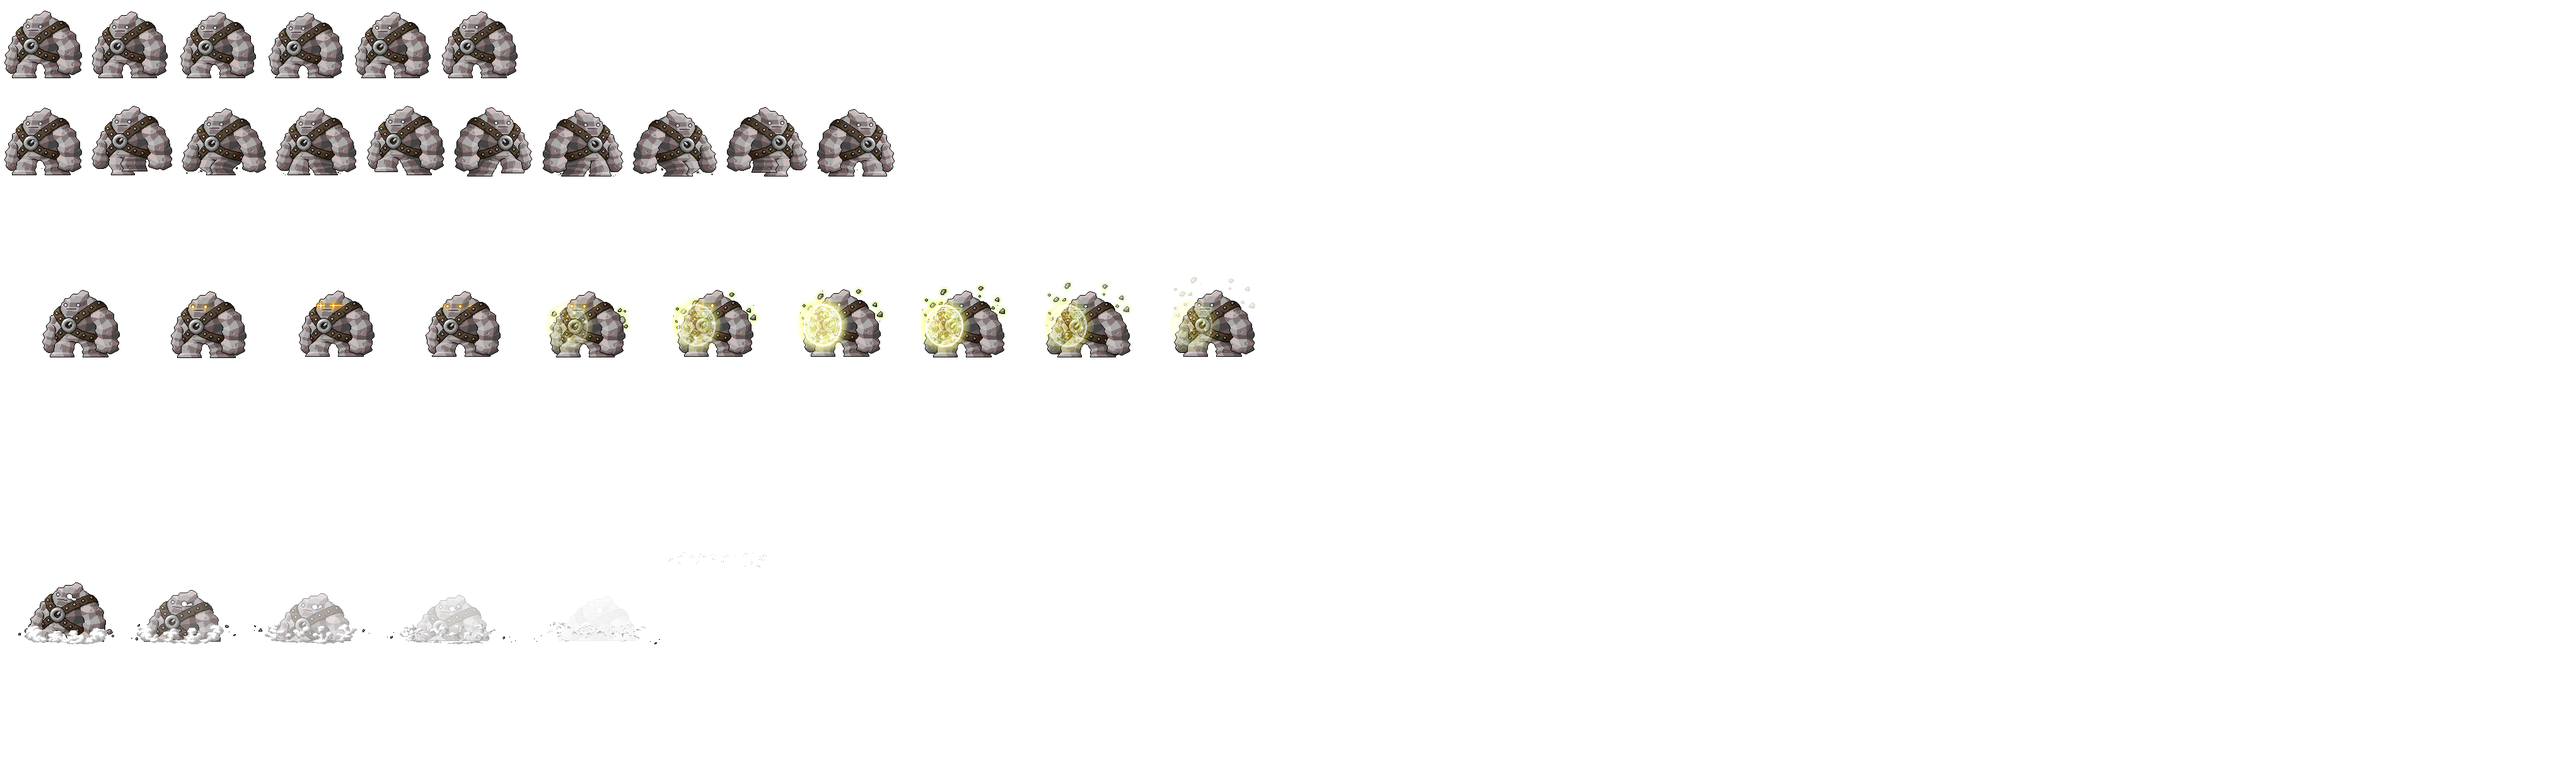
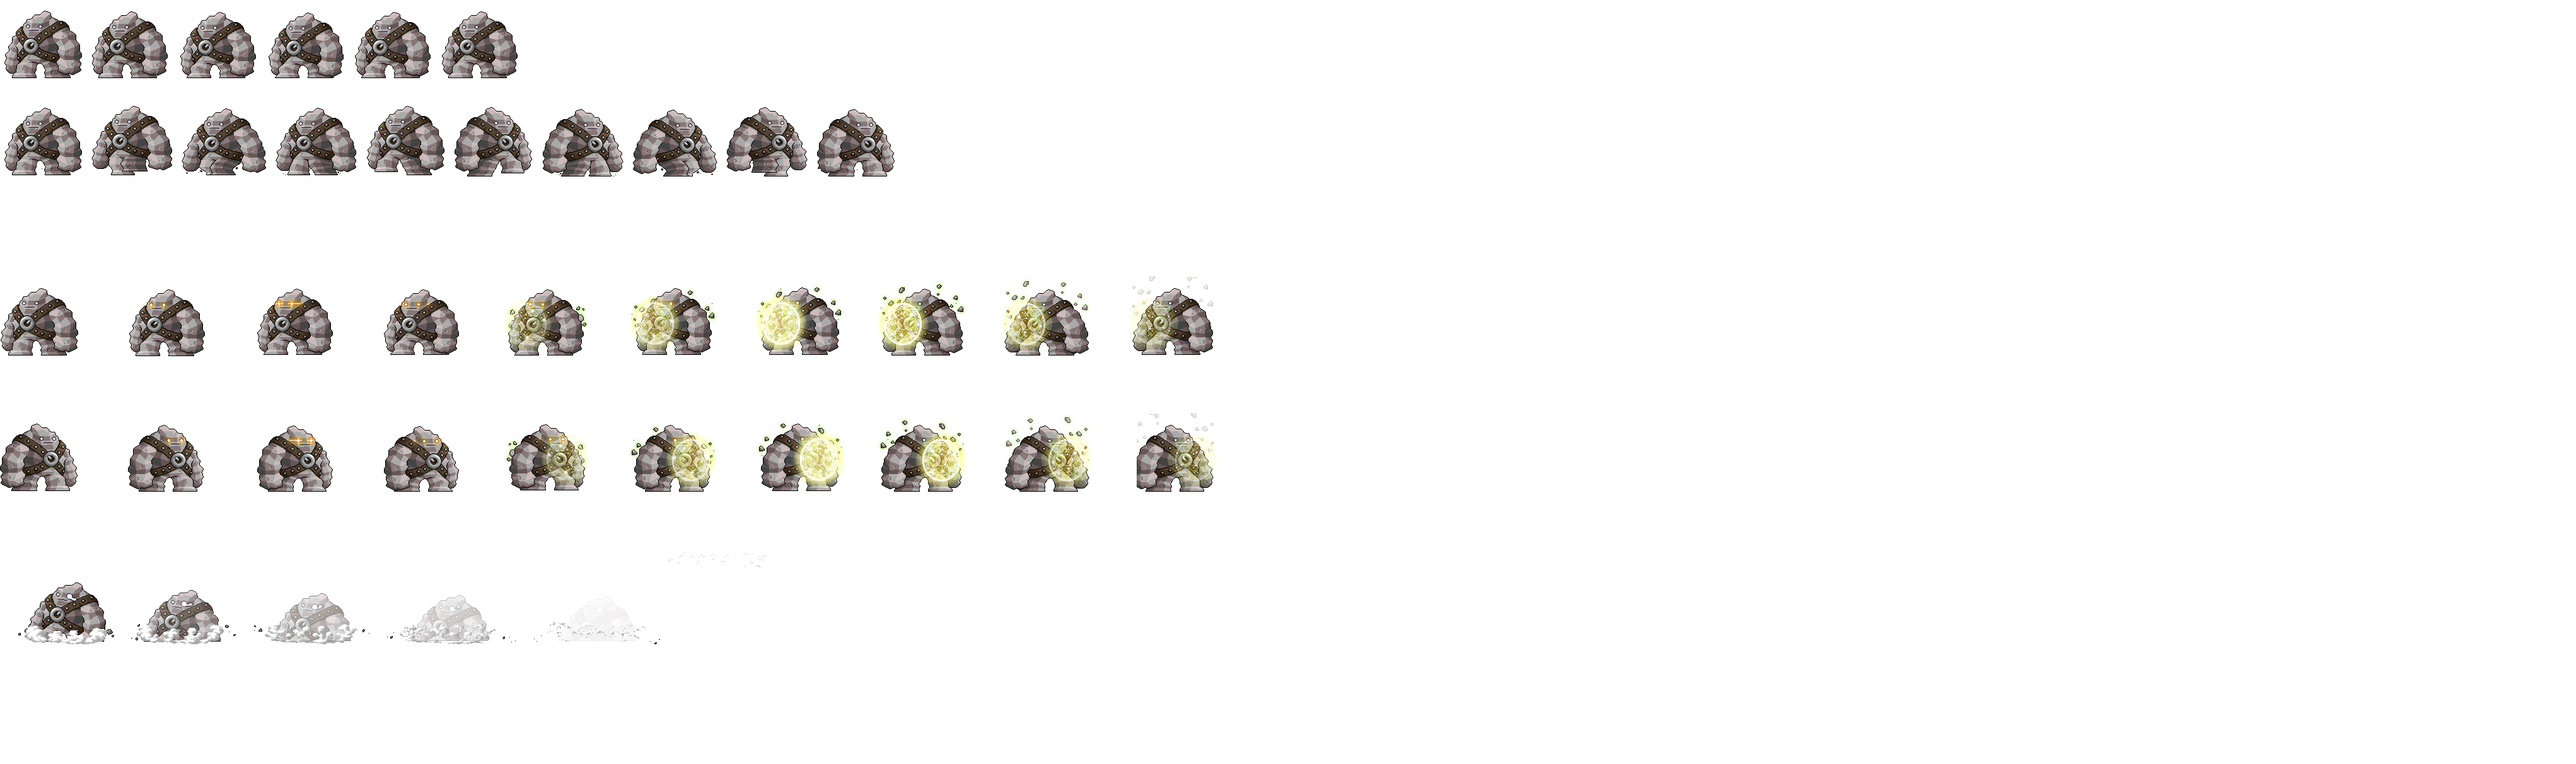
(ADD) stone ogre attack

Changed region(s): [[0.0, 0.3663, 0.4973, 0.4884], [0.0, 0.5495, 0.4973, 0.6411]]

diff --git a/src/entity/combat.c b/src/entity/combat.c
@@ -44,8 +44,8 @@ void follow_ostrich(entity_t *ent, map_t *map)
 void display_attack_ogre(rpg_t *rpg, entity_t *ent, map_t *map, int count)
 {
 	if (count == 5) {
-		ent->square.left = ent->square.left + 400 >= 4400 ?
-		0 : ent->square.left + 400;
+		ent->square.left = ent->square.left + 200 >= 1800 ?
+		0 : ent->square.left + 200;
 		sfSprite_setTextureRect(ent->sprite, ent->square);
 	}
 	reinit_var(rpg, ent, map);
@@ -57,15 +57,15 @@ void attack_ogre(entity_t *ent, rpg_t *rpg)
 	static int count = 0;
 
 	verif == 0 && ent->mirror == 0 ? ent->square.left = 0, ent->square.top
-	= 620, ent->square.width = 400 : 0;
+	= 440, ent->square.width = 180 : 0;
 	verif == 0 && ent->mirror == 1 ? ent->square.left = 0, ent->square.top
-	= 1020, ent->square.width = 400 : 0;
+	= 660, ent->square.width = 180 : 0;
 	count++;
 	display_attack_ogre(rpg, ent, rpg->map, count);
 	verif++;
 	count >= 5 ? count = 0 : 0;
-	verif >= 120 ? verif = 0, ent->square.width = 180,
-	ent->square.top = 220, ent->square.left = 0 : 0;
+	verif >= 100 ? verif = 0, ent->square.width = 140,
+	ent->square.top = 150, ent->square.left = 0 : 0;
 }
 
 void follow_ogre(entity_t *ent, map_t *map, character_t *character)

diff --git a/src/entity/deplacement_stone_ogre.c b/src/entity/deplacement_stone_ogre.c
@@ -68,15 +68,18 @@ void deplacement_ogre(rpg_t *rpg, map_t *map, entity_t *ent)
 	static int count = 0;
 	static int x = 0;
 	static int atk = -1;
+	int xx = map->center.x;
+	int yy = map->center.y;
 
-	if (atk >= 0 && atk <= 100) {
+	if (atk >= 0 && atk < 100) {
 		attack_ogre(ent, rpg);
 		atk++;
 		return;
 	}
 	detect_ennemy(ent, map) == 1 ?
 	follow_ogre(ent, map, rpg->character) : 0;
-	ent->pos.x == rpg->character->pos.x ? atk = 0 : 0;
+	(int)ent->pos.x == xx && (int)ent->pos.y == yy
+	&& atk == -1 ? atk = 0 : 0;
 	ent->seconds >= 0.10 ? count += 1 : 0;
 	ent->mirror == 0 && count == 5 ? x++ : 0;
 	ent->mirror == 1 && count == 5 ? x-- : 0;
